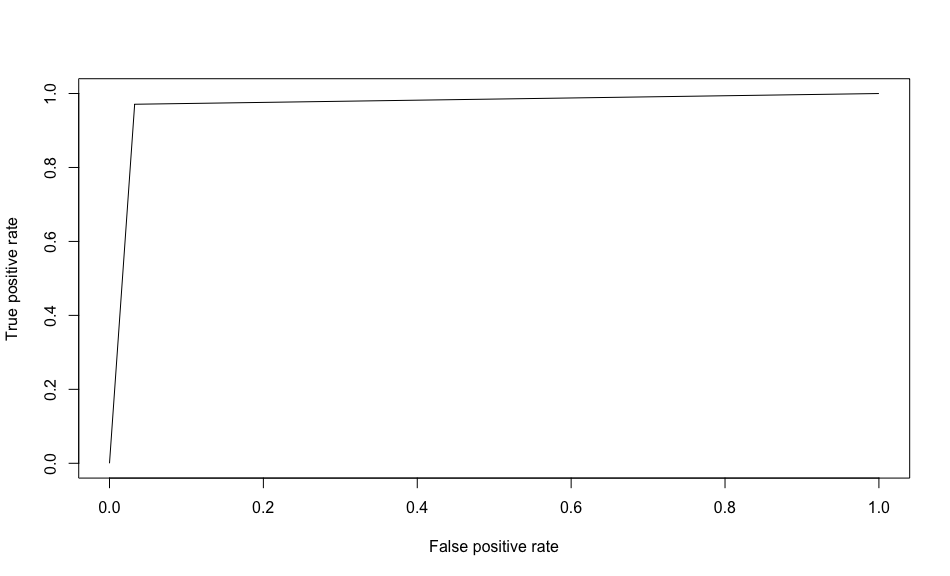
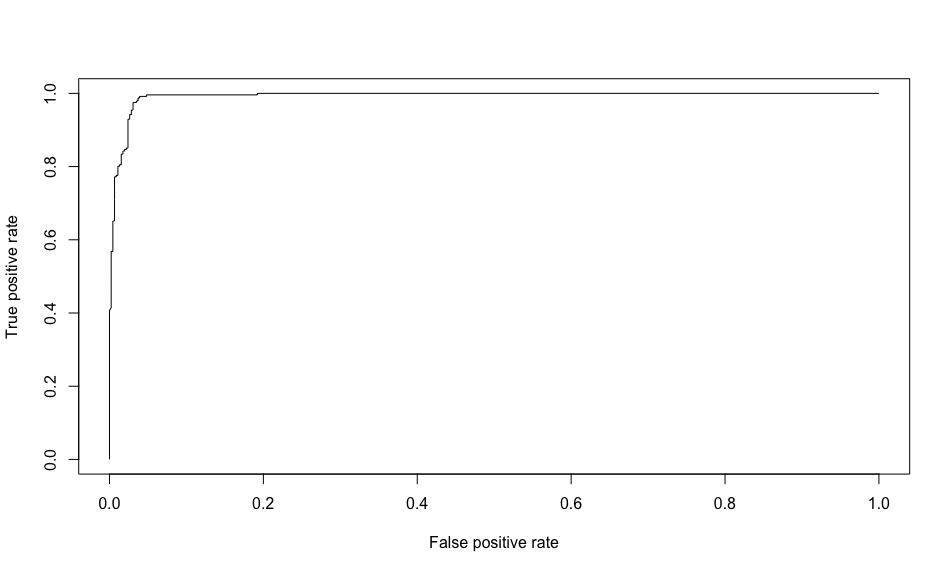
ROC curve using votes

diff --git a/README.md b/README.md
@@ -223,7 +223,18 @@ print(r)
 
 library(ROCR)
 
-pred <- prediction(as.numeric(r$predicted), as.numeric(df$class))
+# use votes, which are the fraction of (OOB) votes from the random forest
+# in the first row, all trees voted for class 0, which is benign
+head(r$votes)
+#           0          1
+# 1 1.0000000 0.00000000
+# 2 0.1222222 0.87777778
+# 3 1.0000000 0.00000000
+# 4 0.1123596 0.88764045
+# 5 0.9940828 0.00591716
+# 6 0.0000000 1.00000000
+
+pred <- prediction(r$votes[,2], as.numeric(df$class)-1)
 perf <- performance(pred,"tpr","fpr")
 plot(perf)
 ~~~~
